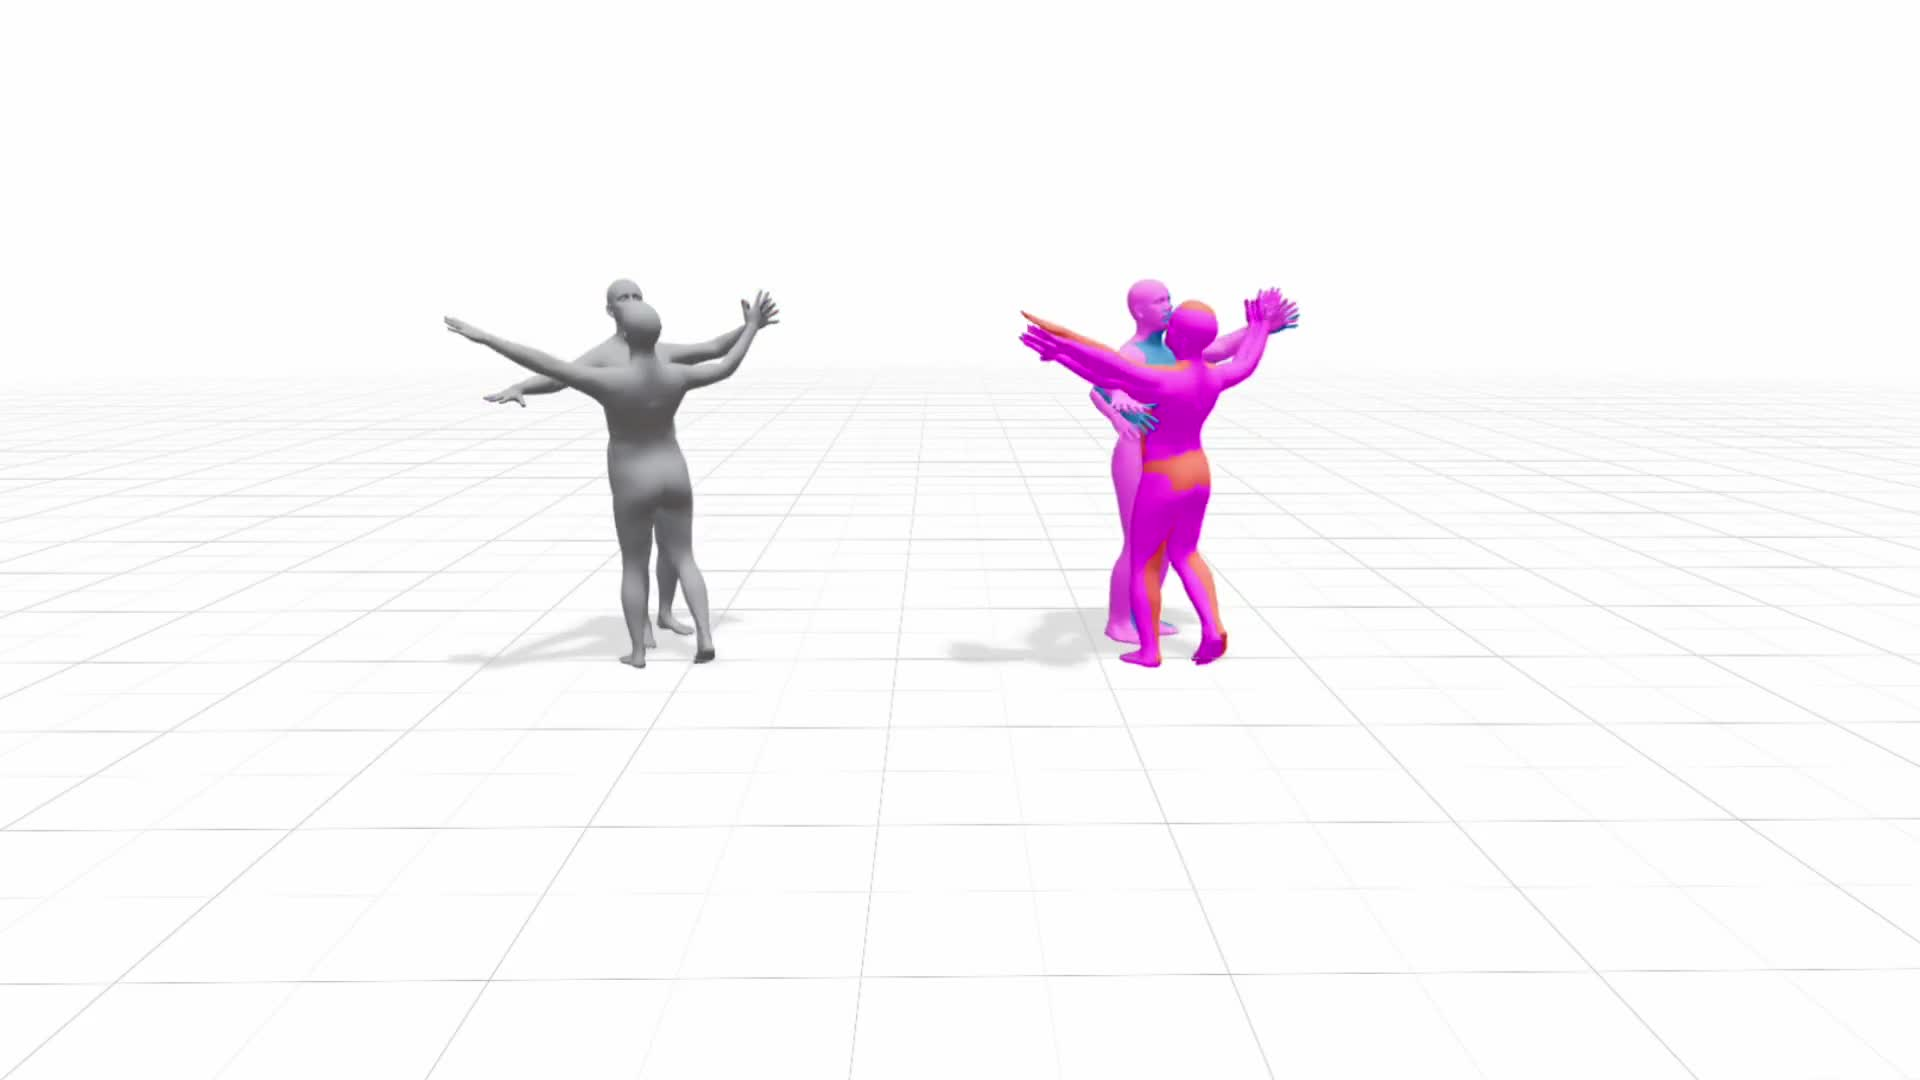
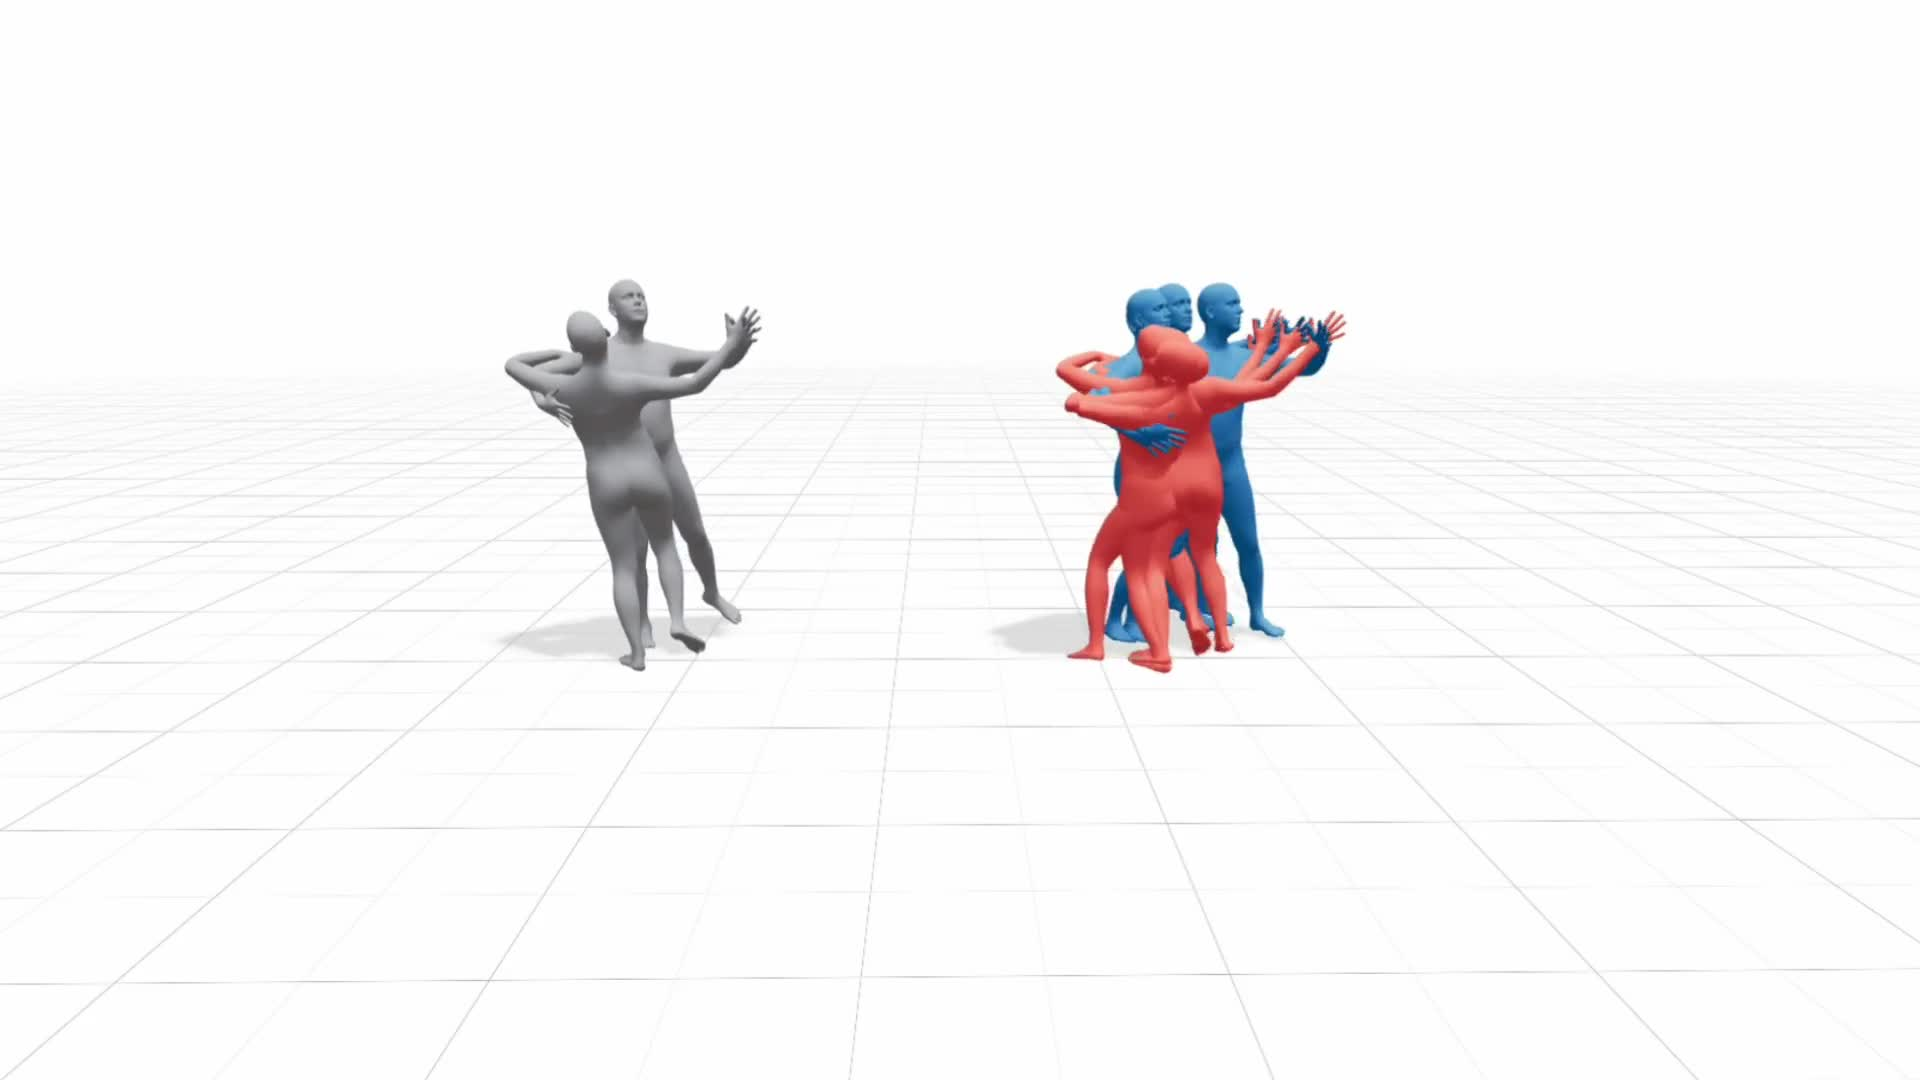
Enhance Ultra Long Motion section in index.html with lazy loading functionality for video playback. Updated thumbnail image and refined description of generated motion samples.

Changed region(s): [[0.5, 0.2444, 0.7188, 0.6417], [0.2188, 0.275, 0.4062, 0.6111]]

diff --git a/index.html b/index.html
@@ -3579,15 +3579,19 @@
                 </div>
 
                 <div class="teaser-video">
-                    <div class="video-player">
-                        <video controls autoplay muted playsinline loop preload="metadata" poster="assets/model_results/ultra_long/waltz_4-thumbnail.jpg">
+                    <div class="video-player" id="ultralongVideoPlayer" style="cursor: pointer; position: relative;">
+                        <img src="assets/model_results/ultra_long/waltz_4-thumbnail.jpg" alt="Ultra Long Motion Preview" style="width: 100%; height: auto; display: block;" id="ultralongPoster">
+                        <div class="play-icon-large" id="ultralongPlayBtn" style="pointer-events: auto;">
+                            <div class="play-triangle"></div>
+                        </div>
+                        <video id="ultralongVideo" controls muted playsinline loop preload="none" style="display: none; width: 100%;">
                             <source src="assets/model_results/ultra_long/waltz_4.webm" type="video/webm">
                             <source src="assets/model_results/ultra_long/waltz_4.mp4" type="video/mp4">
                             Your browser does not support the video tag.
                         </video>
                     </div>
                     <p style="padding: 1.5rem 2rem; text-align: center; color: #4b5563; font-size: 1.0625rem; line-height: 1.7; margin: 0; background: #f9fafb; border-top: 1px solid #e5e7eb;">
-                        <b>Ultra Long Motion Generation:</b> MAGNeT generates extended motion sequences maintaining coordination and realism. This demonstrates the model's ability to generate ultra-long, coherent motion sequences with consistent dynamics and timing. The pink mesh is the context (4 frames, 1 second), the grey mesh is the ground truth, and the red and blue meshes are the generated motions. The ground truth motion ends at 44 seconds, represented by the frozen grey meshes, and we generate motion beyond the available ground truth.
+                        <b>Ultra Long Motion Generation:</b> MAGNeT generates extended motion sequences maintaining coordination and realism. This demonstrates the model's ability to generate ultra-long, coherent motion sequences with consistent dynamics and timing. The pink mesh is the context (4 frames, 1 second), the grey mesh is the ground truth, and the red and blue meshes are the generated motions samples. The ground truth motion ends at 44 seconds, represented by the frozen grey meshes, and we generate motion beyond the available ground truth.
                     </p>
                 </div>
             </section>
@@ -4889,6 +4893,27 @@
             gallery.scrollLeft = scrollLeft - walk;
         });
     });
+
+    // ==========================================
+    // Ultra Long Video Lazy Loading
+    // ==========================================
+    const ultralongPlayer = document.getElementById('ultralongVideoPlayer');
+    const ultralongPoster = document.getElementById('ultralongPoster');
+    const ultralongPlayBtn = document.getElementById('ultralongPlayBtn');
+    const ultralongVideo = document.getElementById('ultralongVideo');
+    
+    if (ultralongPlayer && ultralongVideo) {
+        const loadAndPlayVideo = () => {
+            ultralongPoster.style.display = 'none';
+            ultralongPlayBtn.style.display = 'none';
+            ultralongVideo.style.display = 'block';
+            ultralongVideo.load();
+            ultralongVideo.play().catch(() => {});
+            ultralongPlayer.style.cursor = 'default';
+        };
+        
+        ultralongPlayer.addEventListener('click', loadAndPlayVideo);
+    }
     </script>
 </body>
 </html>
